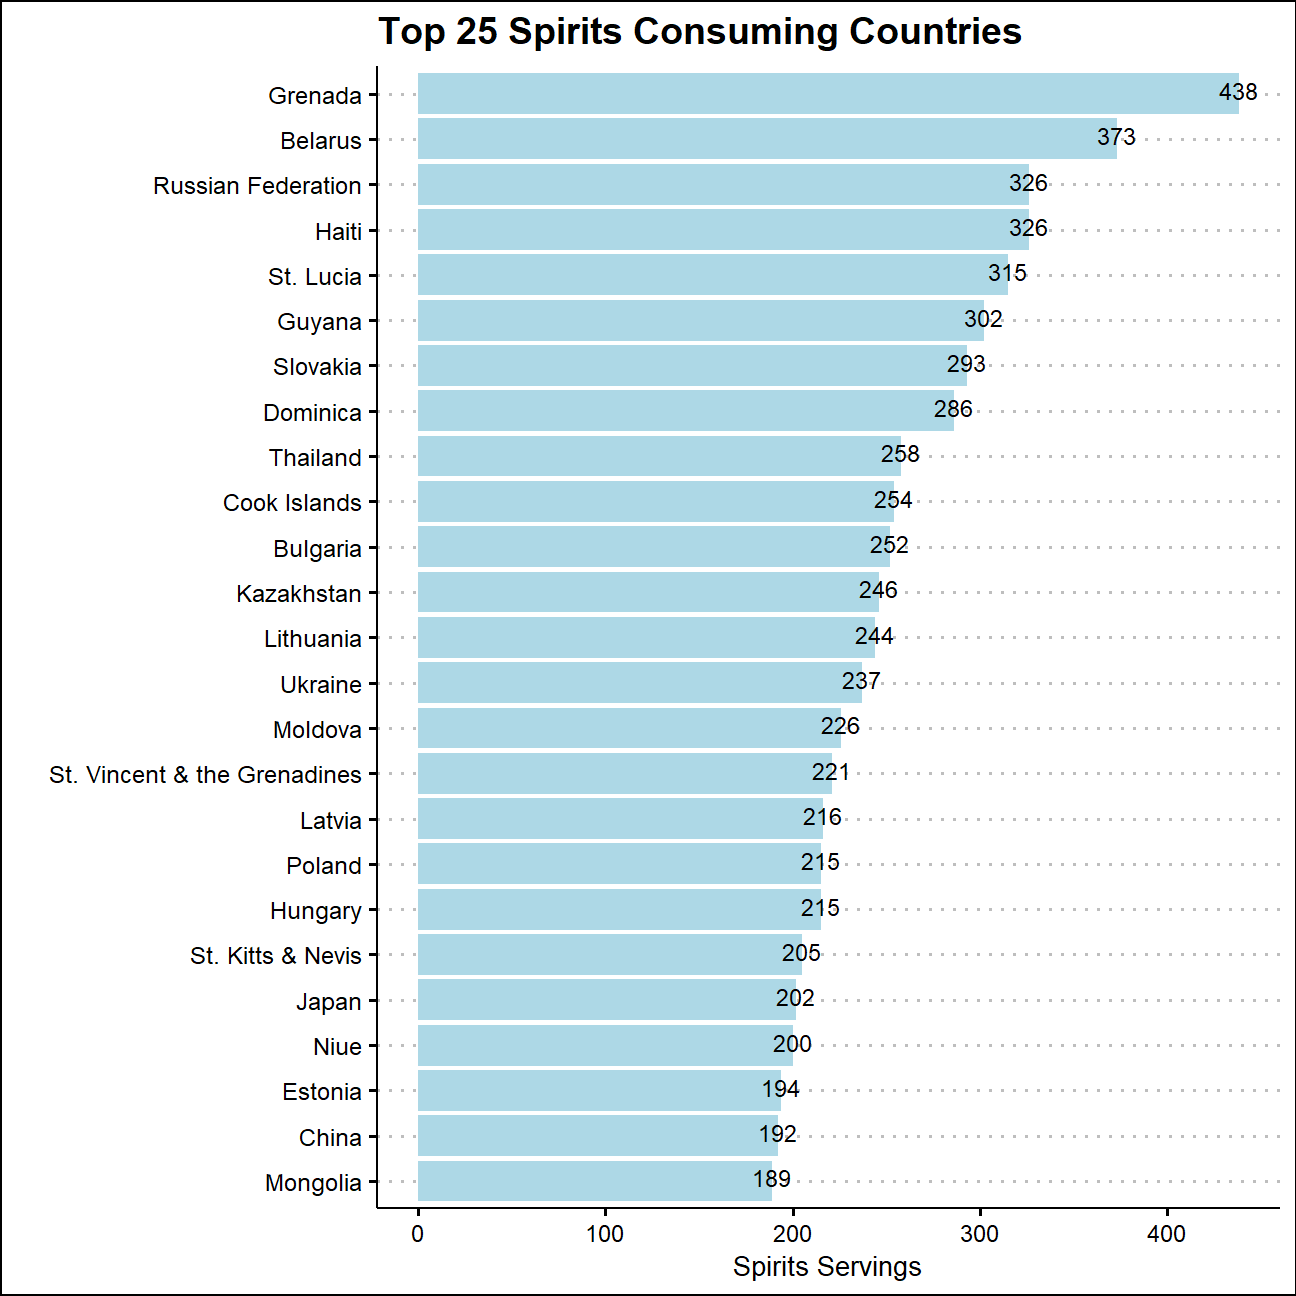
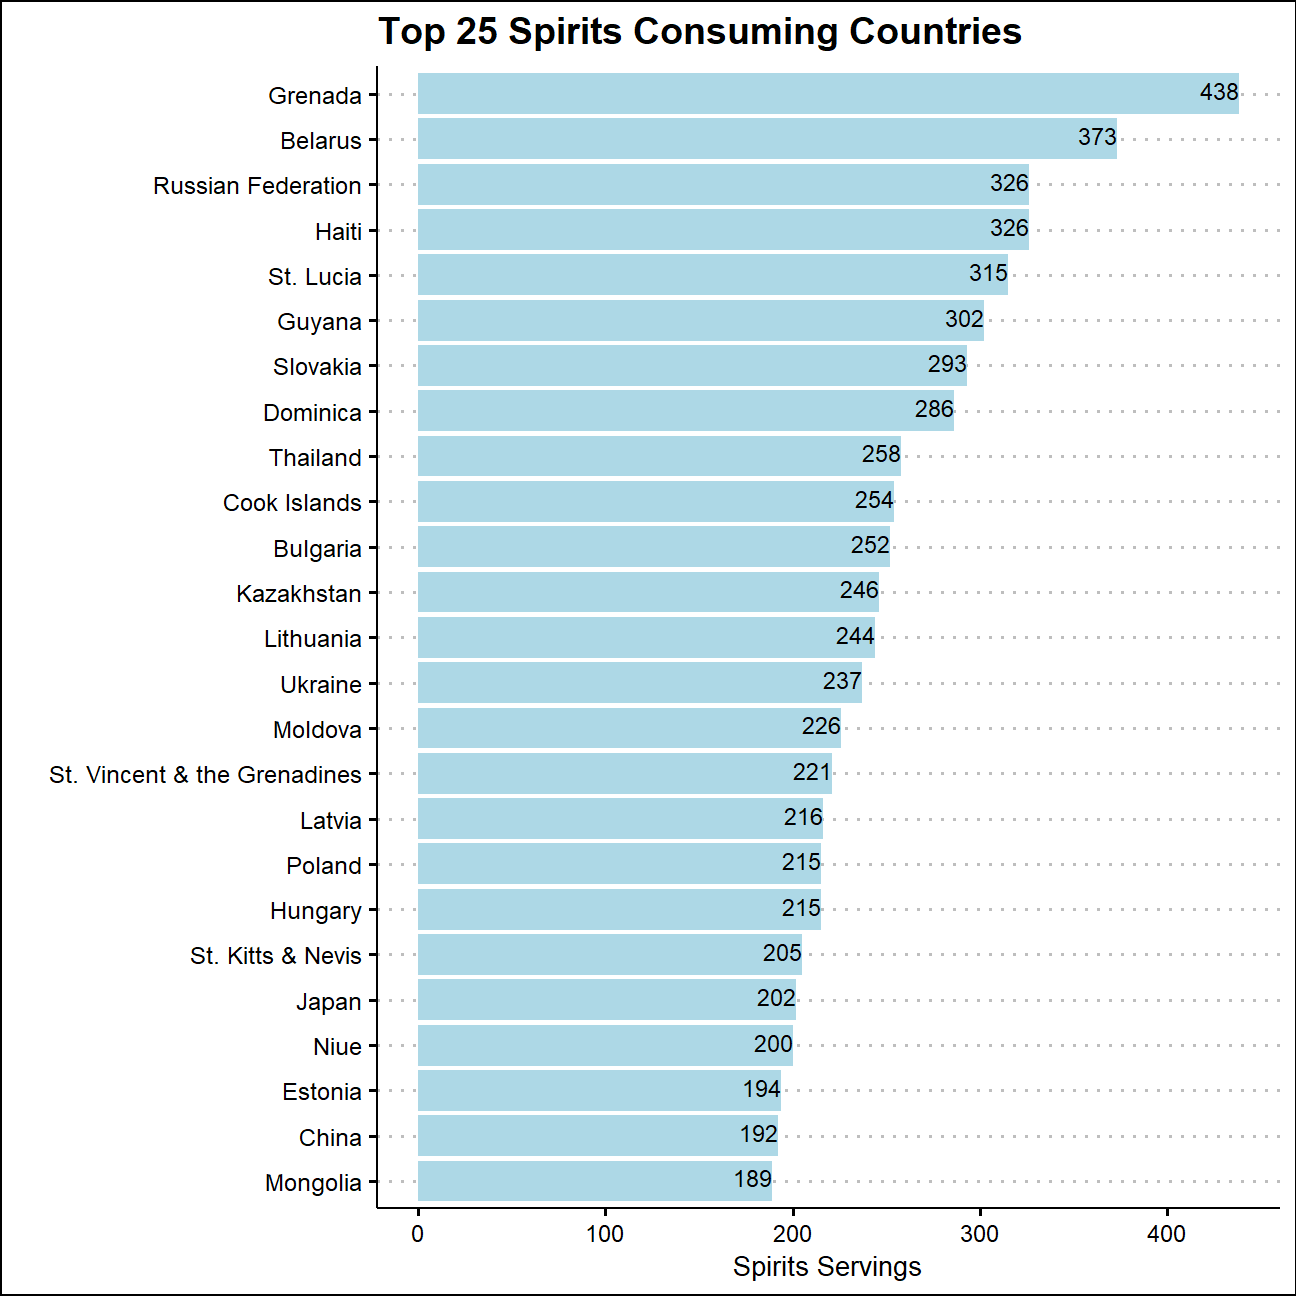
work1complete

diff --git a/content/blogs/blog5.html b/content/blogs/blog5.html
@@ -18,7 +18,6 @@ categories:
 <p>Back in 2014, <a href="https://fivethirtyeight.com/features/dear-mona-followup-where-do-people-drink-the-most-beer-wine-and-spirits/">fivethiryeight.com</a> published an article on alchohol consumption in different countries.</p>
 <pre class="r"><code>library(fivethirtyeight)
 data(drinks)</code></pre>
-<p>JASPER</p>
 <p><strong>There are four numeric variables: <em>beer_servings</em>, <em>spirit_servings</em>, <em>wine_servings</em>, and <em>total_liters_of_pure_alcohol</em>. There is one character variable, <em>country</em>. There are no missing values.</strong></p>
 <pre class="r"><code>glimpse(drinks)</code></pre>
 <pre><code>## Rows: 193
@@ -172,12 +171,14 @@ data(drinks)</code></pre>
 <pre class="r"><code>top25_beer &lt;- top_n(drinks, 25, beer_servings)
 
 ggplot(data = top25_beer, mapping = aes (y = reorder(country, beer_servings), x = beer_servings)) + geom_col(fill=&#39;dark orange&#39;) + labs(title = &quot;Top 25 Beer Consuming Countries&quot;, subtitle = &quot;Namibians are leading beer consumers.&quot;, x = &quot;Beer Servings&quot;, y = &quot;&quot;) +
+  geom_text(aes(label= spirit_servings), vjust=0.3, hjust = 1, color=&quot;black&quot;, size=3) +
   theme_clean()</code></pre>
 <p><img src="/blogs/blog5_files/figure-html/beer_plot-1.png" width="648" style="display: block; margin: auto;" /></p>
 <pre class="r"><code>NULL</code></pre>
 <pre><code>## NULL</code></pre>
 <pre class="r"><code>top25_wine &lt;- top_n(drinks, 25, wine_servings)
 ggplot(data = top25_wine, mapping = aes (y = reorder(country, wine_servings), x = wine_servings)) +   geom_col(fill=&#39;dark red&#39;) +
+  geom_text(aes(label= spirit_servings), vjust=0.3, hjust = 1.5, color=&quot;white&quot;, size=3) +
 labs(title = &quot;Top 25 Wine Consuming Countries&quot;, x = &quot;Wine Servings&quot;, y = &quot;&quot;) +
   theme_clean() +
   
@@ -185,7 +186,7 @@ NULL</code></pre>
 <p><img src="/blogs/blog5_files/figure-html/wine_plot-1.png" width="648" style="display: block; margin: auto;" /></p>
 <pre class="r"><code>top25_spirits &lt;- top_n(drinks, 25, spirit_servings)
 ggplot(data = top25_spirits, mapping = aes (y = reorder(country, spirit_servings), x = spirit_servings)) + geom_col(fill=&#39;light blue&#39;) + 
-  geom_text(aes(label= spirit_servings), vjust=0.3, color=&quot;black&quot;, size=3) +
+  geom_text(aes(label= spirit_servings), vjust=0.3, hjust = 1, color=&quot;black&quot;, size=3) +
   labs(title = &quot;Top 25 Spirits Consuming Countries&quot;, y = &quot;&quot;, x = &quot;Spirits Servings&quot;) +
   theme_clean() +
   

diff --git a/public/blogs/blog5/index.html b/public/blogs/blog5/index.html
@@ -86,7 +86,6 @@
 <p>Back in 2014, <a href="https://fivethirtyeight.com/features/dear-mona-followup-where-do-people-drink-the-most-beer-wine-and-spirits/">fivethiryeight.com</a> published an article on alchohol consumption in different countries.</p>
 <pre class="r"><code>library(fivethirtyeight)
 data(drinks)</code></pre>
-<p>JASPER</p>
 <p><strong>There are four numeric variables: <em>beer_servings</em>, <em>spirit_servings</em>, <em>wine_servings</em>, and <em>total_liters_of_pure_alcohol</em>. There is one character variable, <em>country</em>. There are no missing values.</strong></p>
 <pre class="r"><code>glimpse(drinks)</code></pre>
 <pre><code>## Rows: 193
@@ -240,12 +239,14 @@ data(drinks)</code></pre>
 <pre class="r"><code>top25_beer &lt;- top_n(drinks, 25, beer_servings)
 
 ggplot(data = top25_beer, mapping = aes (y = reorder(country, beer_servings), x = beer_servings)) + geom_col(fill=&#39;dark orange&#39;) + labs(title = &quot;Top 25 Beer Consuming Countries&quot;, subtitle = &quot;Namibians are leading beer consumers.&quot;, x = &quot;Beer Servings&quot;, y = &quot;&quot;) +
+  geom_text(aes(label= spirit_servings), vjust=0.3, hjust = 1, color=&quot;black&quot;, size=3) +
   theme_clean()</code></pre>
 <p><img src="/blogs/blog5_files/figure-html/beer_plot-1.png" width="648" style="display: block; margin: auto;" /></p>
 <pre class="r"><code>NULL</code></pre>
 <pre><code>## NULL</code></pre>
 <pre class="r"><code>top25_wine &lt;- top_n(drinks, 25, wine_servings)
 ggplot(data = top25_wine, mapping = aes (y = reorder(country, wine_servings), x = wine_servings)) +   geom_col(fill=&#39;dark red&#39;) +
+  geom_text(aes(label= spirit_servings), vjust=0.3, hjust = 1.5, color=&quot;white&quot;, size=3) +
 labs(title = &quot;Top 25 Wine Consuming Countries&quot;, x = &quot;Wine Servings&quot;, y = &quot;&quot;) +
   theme_clean() +
   
@@ -253,7 +254,7 @@ NULL</code></pre>
 <p><img src="/blogs/blog5_files/figure-html/wine_plot-1.png" width="648" style="display: block; margin: auto;" /></p>
 <pre class="r"><code>top25_spirits &lt;- top_n(drinks, 25, spirit_servings)
 ggplot(data = top25_spirits, mapping = aes (y = reorder(country, spirit_servings), x = spirit_servings)) + geom_col(fill=&#39;light blue&#39;) + 
-  geom_text(aes(label= spirit_servings), vjust=0.3, color=&quot;black&quot;, size=3) +
+  geom_text(aes(label= spirit_servings), vjust=0.3, hjust = 1, color=&quot;black&quot;, size=3) +
   labs(title = &quot;Top 25 Spirits Consuming Countries&quot;, y = &quot;&quot;, x = &quot;Spirits Servings&quot;) +
   theme_clean() +
   

diff --git a/public/blogs/index.html b/public/blogs/index.html
@@ -7,7 +7,7 @@
 	<meta name="description" content="Engineer">
 	<meta name="author" content="Ilana Kovalenko">
 	<meta name="generator" content="Hugo 0.75.1" />
-	<title>Lifestyle &middot; My Portfolio</title>
+	<title>My projects &middot; My Portfolio</title>
 	<!-- Stylesheets -->
 	
 	<link rel="stylesheet" href="/css/main.css"/>
@@ -77,7 +77,7 @@
                         </span>
 			
                         <header class="major">
-                            <h1>Lifestyle</h1>
+                            <h1>My projects</h1>
                         </header>
                         <div class="content">
                             <p>My blogs about technology and lifestyle.</p>

diff --git a/content/blogs/_index.md b/content/blogs/_index.md
@@ -3,7 +3,7 @@ date: "2017-10-31T22:27:21-05:00"
 draft: false
 image: pic02.jpg
 slug: blogs
-title: Lifestyle
+title: My projects
 ---
 
 My blogs about technology and lifestyle.
